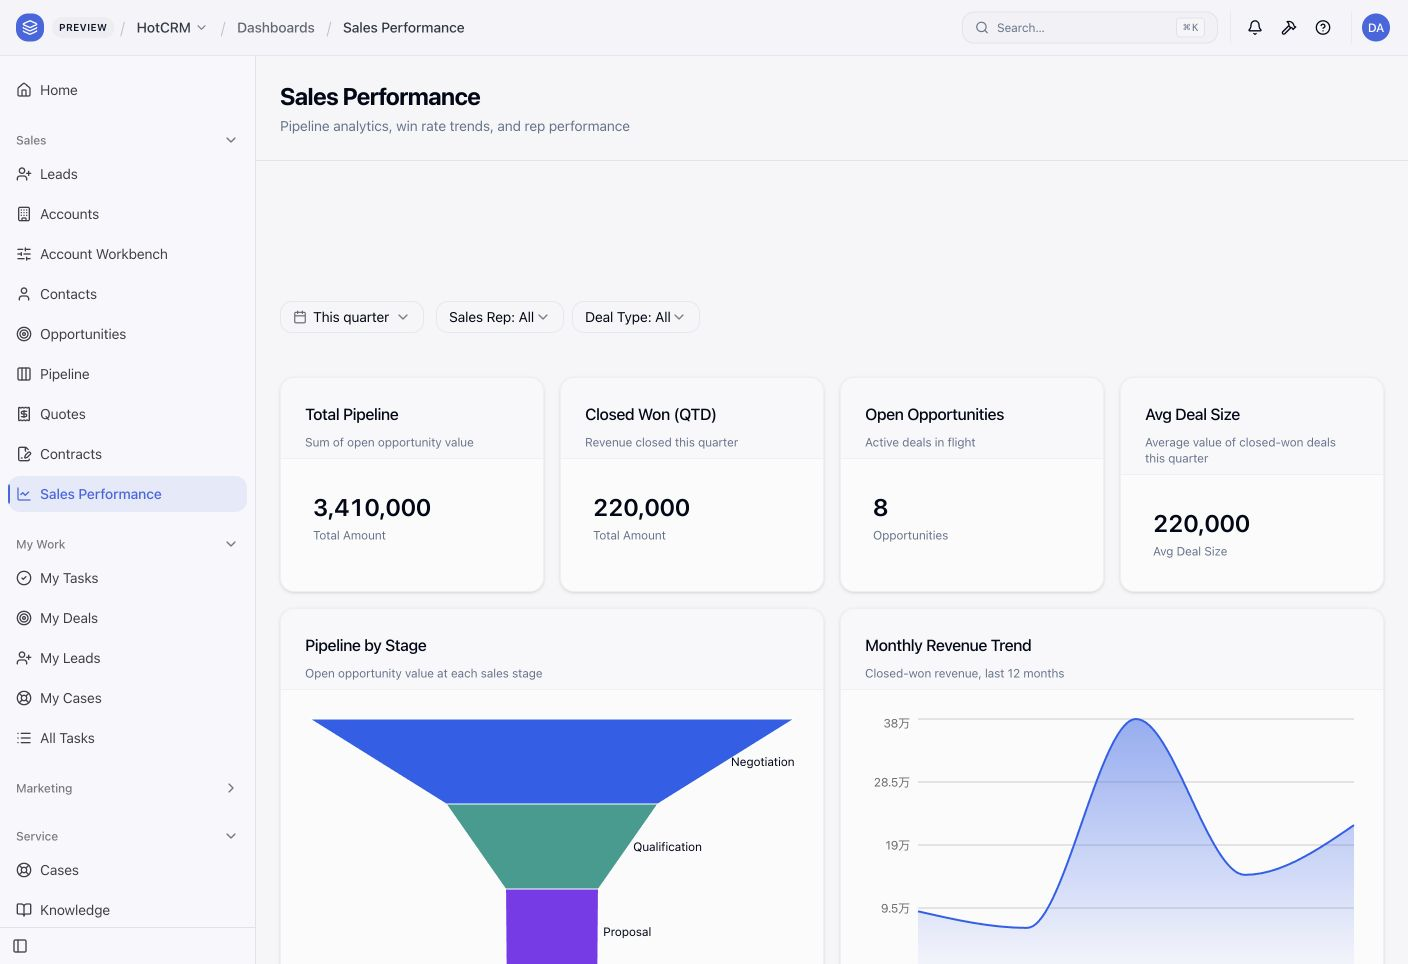
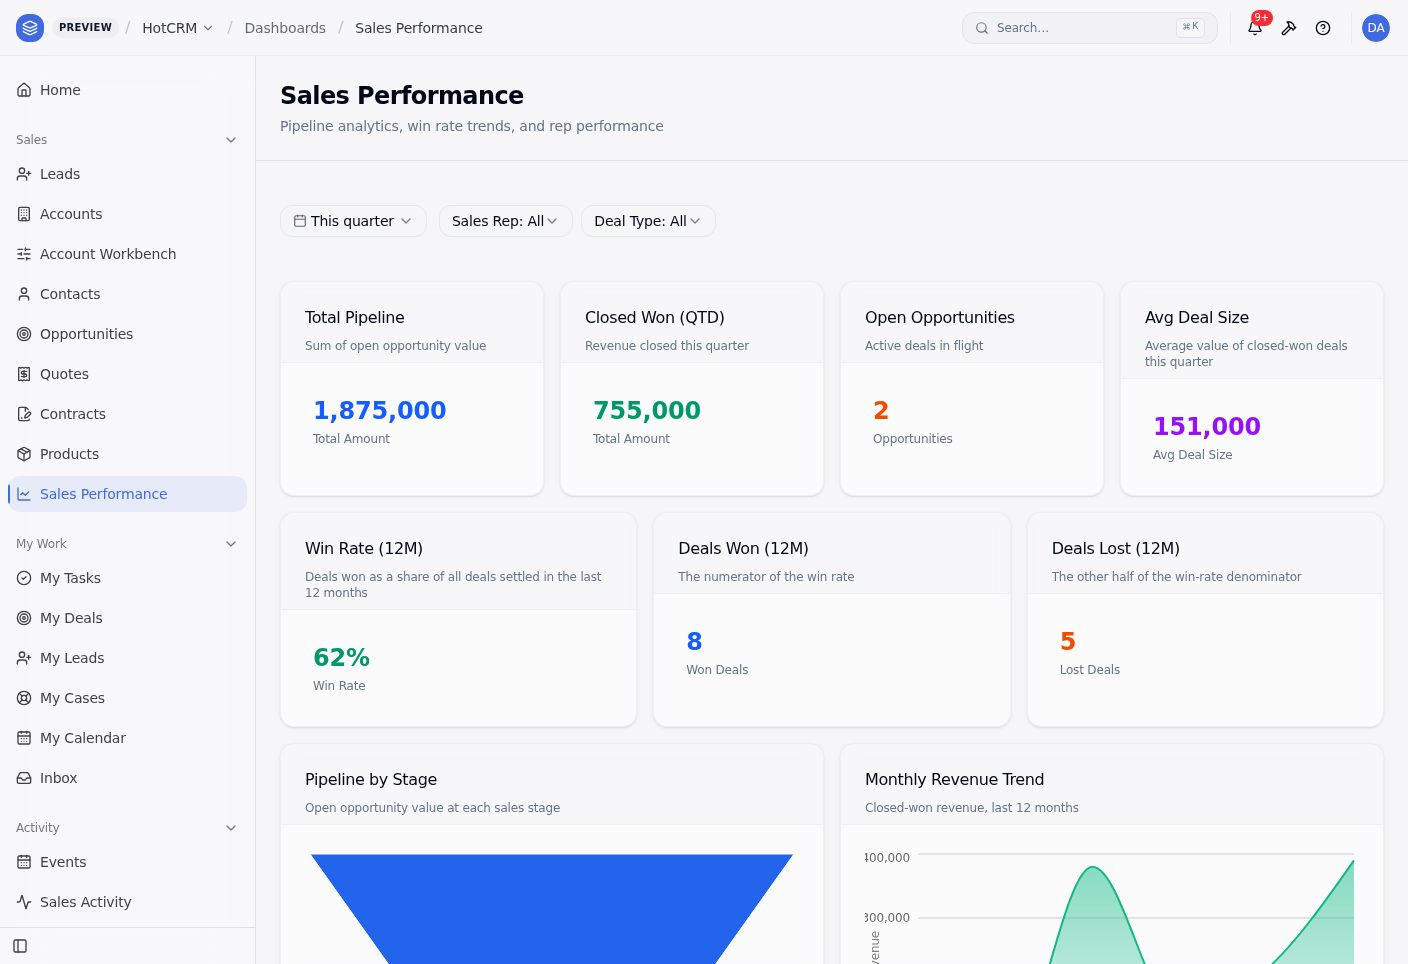
docs(assets): re-capture sales-dashboard so the English frame carries an English axis
The published `assets/screenshots/hotcrm/sales-dashboard/en.jpg` was an English
capture with a Simplified y-axis: its Monthly Revenue Trend read
`38万 / 28.5万 / 19万 / 9.5万`, character for character the same labels as
`zh-Hans.jpg`, while the sidebar, KPI tiles and funnel stages on the same frame
were correctly English. `meta.yaml` marks the set `status: published`, and the
repository README renders this file, so the wrong axis is on the front page.

Both locale files are replaced, captured from a booted app on seeded demo data
at the id route `/_console/apps/app.objectstack.hotcrm/dashboard/sales_dashboard`
in two fresh browser contexts differing only in `navigator.language` (`en-US`
and `zh-CN`). Both measure 1408x964, matching the viewport `meta.yaml` already
declared, and both are real JPEG bytes so the extension stays truthful.

The new pair carries identical y-axis labels and that is the correct result:
`monthly_revenue_trend` declares an explicit `chartConfig.yAxis[0].format:
'0,0'`, so it renders grouped digits in every UI language. The executive
dashboard's `revenue_trend` declares no `chartConfig` and therefore takes the
locale-aware compact formatter -- the same probe returns `100K/…/400K` under
`en-US` and `10万/…/40万` under `zh-CN` there, which is the control proving the
probe can see the myriad units at all. `meta.yaml` now carries that chain so the
next reader does not restore a Chinese axis onto an English asset.
[…]

diff --git a/.changeset/sales-dashboard-recaptured-in-its-own-locale.md b/.changeset/sales-dashboard-recaptured-in-its-own-locale.md
@@ -1,0 +1,41 @@
+---
+---
+
+Published assets only — this PR releases nothing to HotCRM users, so the
+frontmatter above is deliberately empty (the sanctioned "releases nothing"
+declaration that `.github/workflows/changeset-check.yml` documents, on par with
+the `skip-changeset` label). No `src/` metadata changed: no object, field, view,
+label, page, dashboard or hook. The empty changeset is preferred over the label
+because it is committed evidence that travels with the PR and it leaves both
+steps of the gate running instead of skipping the job outright.
+
+Re-capture both locale files of `assets/screenshots/hotcrm/sales-dashboard/`.
+
+The published `en.jpg` was an English capture carrying a Simplified y-axis: its
+*Monthly Revenue Trend* read `38万 / 28.5万 / 19万 / 9.5万`, character for
+character the same as `zh-Hans.jpg`, while every other string on the frame —
+sidebar, KPI tiles, funnel stages — was correctly English. The asset's own
+`meta.yaml` carries `status: published`, i.e. cleared for public README and docs
+use, and the repository README does render it.
+
+Both files are replaced, captured from a booted app on seeded demo data at the id
+route `/_console/apps/app.objectstack.hotcrm/dashboard/sales_dashboard`, in two
+fresh browser contexts that differ in nothing but `navigator.language` (`en-US`
+and `zh-CN`). Both measure 1408x964, matching the `viewport` the set already
+declared, and both are real JPEG bytes, so the `.jpg` extension this set alone
+uses stays truthful.
+
+**The new pair carries identical y-axis labels, and that is the correct result.**
+The card predicted the English axis would come back as `400K / 300K / …` against
+a Simplified `40万 / 30万 / …`, generalising from the Executive Overview capture
+in #1799. Measured here rather than inherited, that generalisation does not hold
+for this chart: `monthly_revenue_trend` declares an explicit
+`chartConfig.yAxis[0].format: '0,0'`, so it renders grouped digits
+(`0 / 100,000 / 200,000 / 300,000 / 400,000`) in every UI language, while the
+executive dashboard's `revenue_trend` declares no `chartConfig` at all and
+therefore takes the locale-aware compact formatter. The same probe run against
+that second chart returns `0/100K/200K/300K/400K` under `en-US` and
+`0/10万/20万/30万/40万` under `zh-CN` — the control that proves the probe can see
+`万` at all, which is what makes its absence here a property of this widget's
+declared format rather than of the capture. `meta.yaml` now carries that chain,
+so the next reader does not "restore" the Chinese axis onto an English asset.
